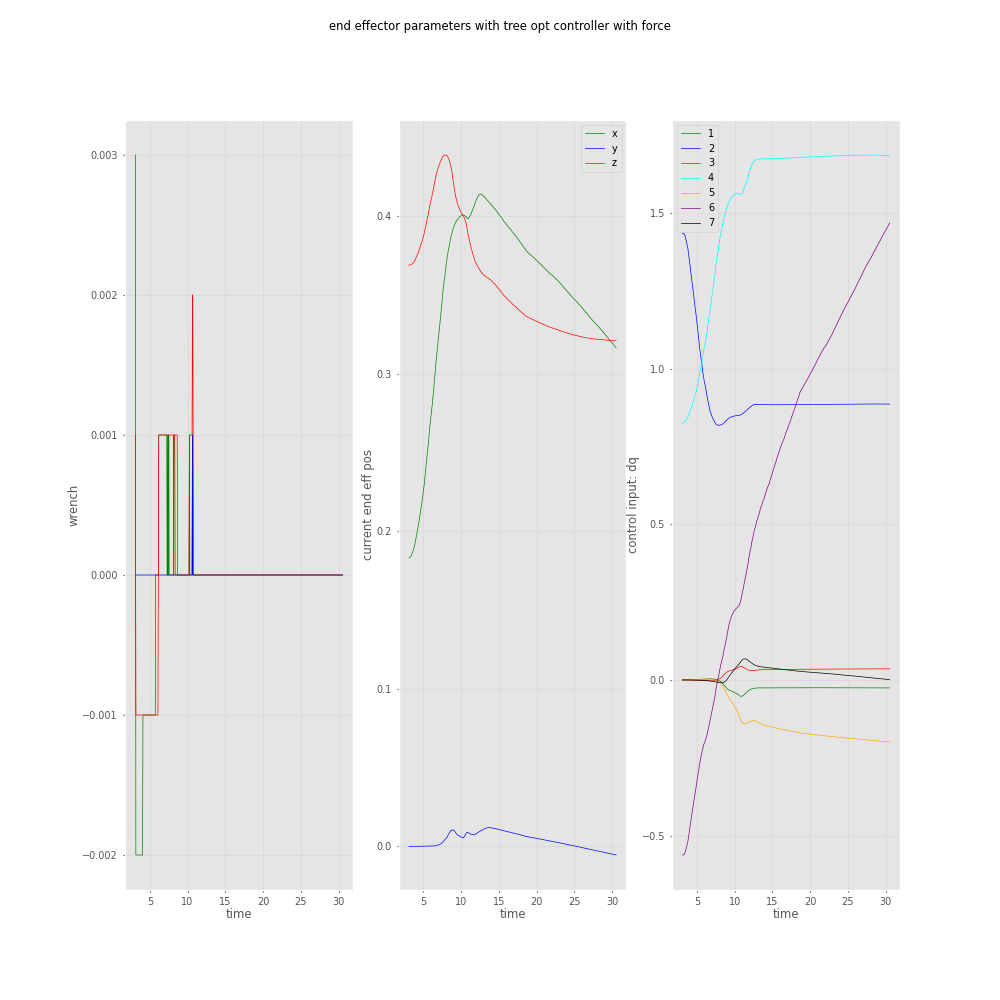
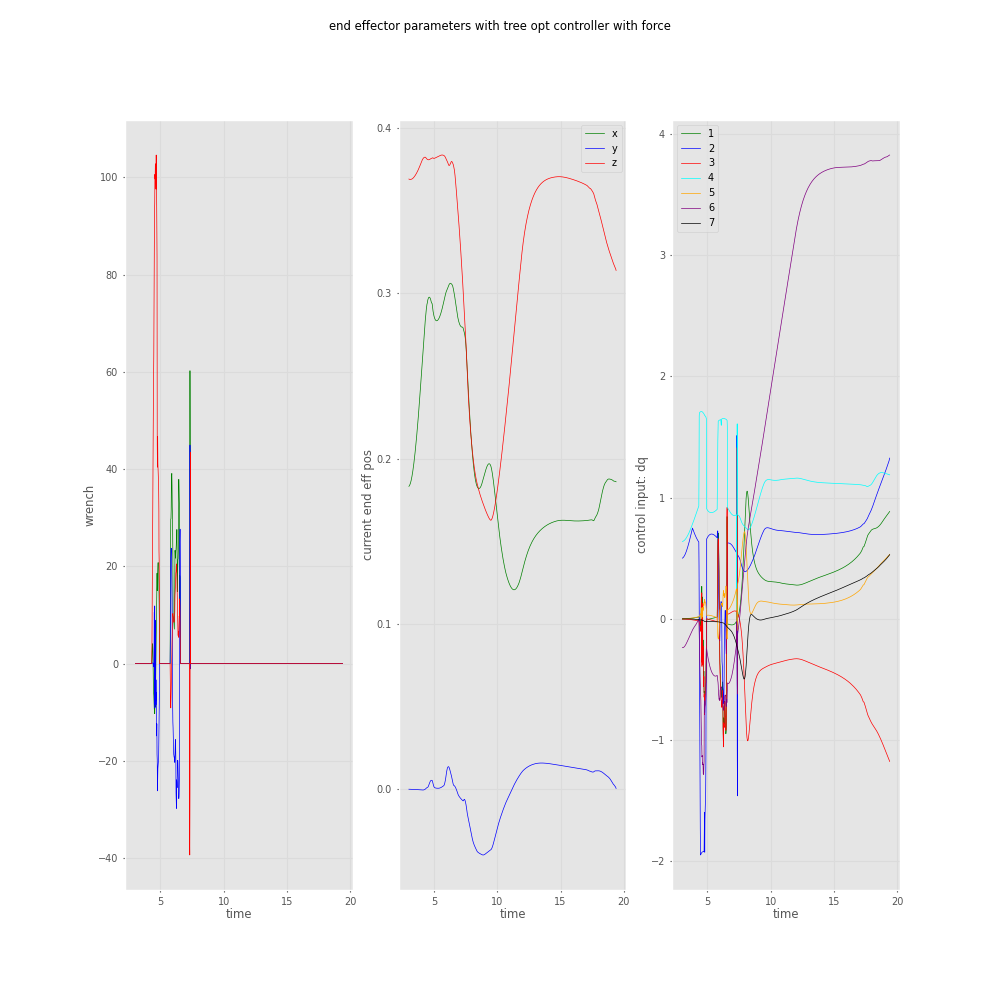
fixed somw stuff

diff --git a/mpc_controller.py b/mpc_controller.py
@@ -1,41 +1,24 @@
 import time
-import cvxopt
 import numpy as np
 from urdfpy import URDF
 from spatialmath import SE3
 import spatialmath as sm
 import roboticstoolbox as rtb
 import spatialmath.base as base
-from qpsolvers import solve_qp
-from uncMPC import uncMPC
-import qpsolvers as qp
 from controller_performance import ControlPerformance
-import mpc_qp
-# from IPython.display import display, clear_output
 import cvxpy as cp
 
 
 
 class MPC:
     def __init__(self, dt):
-        cvxopt.solvers.options['show_progress'] = False
         self.n = 7  # Number of joints
         self.dt = dt
-        self.stop_time = dt
-        self.q0 = np.zeros(self.n)
-        self.initialize_constraints()
         self.initialize_storage()
         self.opt_ctrl = ControlPerformance("opt_ctrl")
         time.sleep(1)
         print("Start controller")
 
-    def initialize_constraints(self):
-        self.u_UB = np.array([10, 10, 10, 10, 10, 10, 10])
-        self.u_LB = -self.u_UB
-        self.q_UB = np.array([6.28319, 6.28319, 2.61799, 6.28319, 6.28319, 6.28319, 6.28319])
-        self.q_LB = -self.q_UB
-        self.joint_configs = np.zeros(self.n)
-        self.prev_u = np.zeros(8)
 
     def initialize_storage(self):
         self.arrived = False
@@ -55,46 +38,46 @@ class MPC:
         self.u = 0
 
     def get_next_torque(self, wrench, robot, target, target_vel):
-        self.Y = 1
-        self.Q = np.eye(self.n*2) * self.Y
+
         M = robot.get_M_()
     
         J = robot.get_jacobian()
-        A, B = np.zeros((14,14)), np.zeros((14,7))
-        A[0:7,0:7], B[0:7,0:7] = np.eye(7), np.eye(7)
+        A, B = np.zeros((7,7)), np.zeros((7,7))
+        Af, Bf = np.zeros((7,7)), np.zeros((7,7))
+        A, B = np.eye(7), np.eye(7)
 
-        A[7:14,7:14], B[7:14,0:7]= np.eye(7), M
-        dq_curr = robot.get_joint_vel()
-        joint_tor = robot.get_joint_torque_sensor()
+        Af, Bf = np.eye(7), M
+
+
         target_vel = target_vel + np.dot(np.linalg.pinv(M),( np.dot(J.T, wrench)))
-        x0 = robot.get_joint_positions()
-        Q= np.eye(7)
-        x_ref = np.zeros(14) 
-        x_ref[0:7] = target 
+
+        f_ref = np.dot(J.T, wrench) 
+        x_ref = target 
         T = 2
-        x = cp.Variable((14,T+1))
+        x = cp.Variable((7,T+1))
+        f = cp.Variable((7,T+1))
         u = cp.Variable((7,T)) # u is joint velocity
         cost = 0
         constr = []
         R = np.eye(7)
-        P = np.eye(14)
-        q = np.zeros(14)
-        q[0:7] = robot.get_joint_positions()
-        P = np.eye(14)*.1
-        G = np.eye(7)*.2
+        # P = np.eye(14)
+        # q = np.zeros(14)
+        q = robot.get_joint_positions()
+        # q[7:14] = -np.dot(J.T, wrench)
+        P = np.eye(7)*2
+        F = np.eye(7)*1
+        G = np.eye(7)*1
         P = P.T @ P
         G = G.T @G
   
         for t in range(T):
-            cost += cp.quad_form(x[:, t + 1] -x_ref, P)  + cp.quad_form(u[:, t], G)
+            cost += cp.quad_form(x[:, t + 1] -x_ref, P) + cp.quad_form(f[:, t + 1] -f_ref, F) + cp.quad_form(u[:, t] , G)
             constr += [x[:, t + 1] == np.dot(A, q )+ B @ (u[:, t])]
+            constr += [f[:, t + 1] == Bf @ (u[:, t])]
             constr += [u[:,t] <= np.ones(7)*(1.5)]
             constr += [u[:,t] >= np.ones(7)*(-1.5)]
         problem = cp.Problem(cp.Minimize(cost), constr)
         problem.solve()
-        print(u[:,0].value)
-        print(target_vel)
-        print("=====")
         self.target_u.append(target_vel)
         self.calculated_u.append(u[:,0].value)
         self.cost.append(problem.value)
@@ -104,20 +87,6 @@ class MPC:
         self.wrench_sample = np.roll(self.wrench_sample, shift=-1, axis=0)
         self.wrench_sample[-1] = wrench
 
-    def compute_acceleration(self, wrench, robot, J, dq):
-        if np.abs(np.mean(wrench)) > 1:
-            ddq = robot.get_forward_dynamics(wrench)
-            acc = np.matmul(J, ddq)
-        else:
-            acc = np.zeros(6)
-        return acc
-
-    def setup_constraints(self, J, target_vel, robot):
-        Aeq = np.zeros((6, self.n))
-        beq = np.zeros(6)
-        Aeq[0:6, 0:7] = J
-        beq[0:6] = target_vel
-        return Aeq, beq
 
     def update_debug_values(self, J, wrench, Torque, robot):
         self.T.append(Torque)
@@ -183,7 +152,7 @@ class MPC:
         target_pos = q_k  +dq_k *dt
         dq_ext = self.get_next_torque(wrench, robot, target_pos, dq_k)
         
-        # dq_k =  dq_ext
+        dq_k =  dq_ext
         self.target_pos = (q_k+ dq_k*dt)
         curr_end_eff_position = robot.get_ee_position()
         robot.run(self.target_pos)

diff --git a/robot.py b/robot.py
@@ -24,7 +24,7 @@ class RoboEnv(MuJoCoBase):
         self.robot_rtb = self.load_rtb_robot(urdf_path)
         self.reset_joints()
         self.j_vel_prev = np.zeros(7)
-        self.ee_max_reach = .43
+        self.ee_max_reach = .6
         
         print("---------all good loading robots------------")
 
@@ -84,7 +84,15 @@ class RoboEnv(MuJoCoBase):
         ft_ori_mat = self.data.site_xmat[self.eef_site_id].reshape(3, 3)
         force = np.dot(ft_ori_mat, self.data.sensordata[21:24])
         torque = np.dot(ft_ori_mat, self.data.sensordata[24:27])
-        return -np.round(np.concatenate([force, torque]), 3)
+        a= np.zeros(6)
+        a[0:3] = self.get_ee_acc()
+         # mass is one
+        return np.round(np.concatenate([force, torque])-a, 3)
+
+    def get_ee_acc(self):
+        ft_ori_mat = self.data.site_xmat[self.eef_site_id].reshape(3, 3)
+        return np.dot(ft_ori_mat, self.data.sensordata[30:33])
+
 
     def get_ee_vel(self):
         ft_ori_mat = self.data.site_xmat[self.eef_site_id].reshape(3, 3)
@@ -174,8 +182,8 @@ class RoboEnv(MuJoCoBase):
     #           rbt
     ################################
 
-    def get_rtb_end_eff_pose(self,q):
-        # q_mujoco = self.get_joint_positions()
+    def get_rtb_end_eff_pose(self):
+        q_mujoco = self.get_joint_positions()
         pose = self.robot.fkine(q)
         return pose, pose.t, pose.R
 
@@ -195,6 +203,12 @@ class RoboEnv(MuJoCoBase):
         T = np.dot(M,ddq) +np.dot(C, dq) +G
         return T
 
+    def get_rtb_fk(self, q):
+        pose = self.robot.fkine(q)
+        return pose, pose.t, pose.R
+
+    def get_rtb_ik(self, pose):
+        pass
 
 
 

diff --git a/run_controller.py b/run_controller.py
@@ -110,7 +110,7 @@ def mean_squared_error(x, y):
 if __name__ == '__main__':
     print("testing robot.py setup")
     robot = RoboEnv()
-    Tmax, dT = 10, 500
+    Tmax, dT = 10, 1000
     mpc = MPC(dt=dT)
     curr_robot_position = robot.data.site_xpos[0]
     x, y, z, rx, ry, rz = get_path(curr_robot_position, Tmax, dT)
